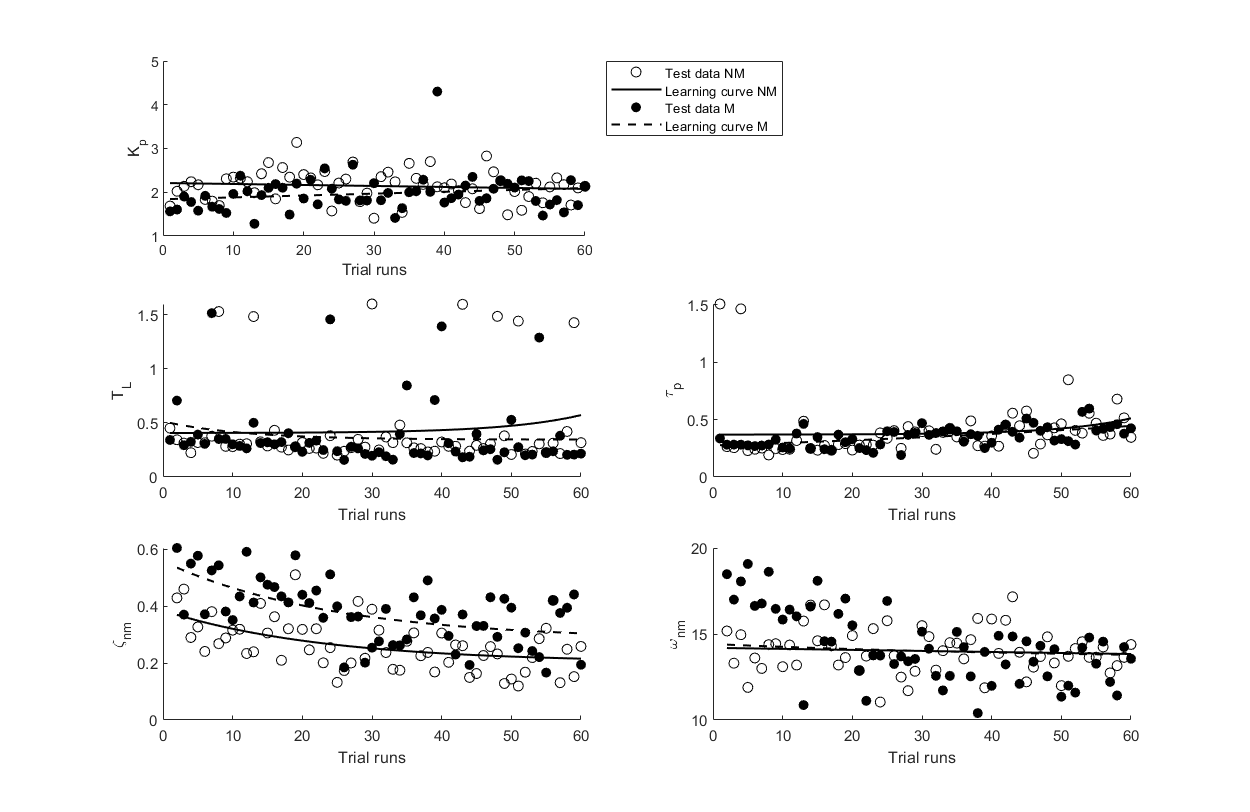
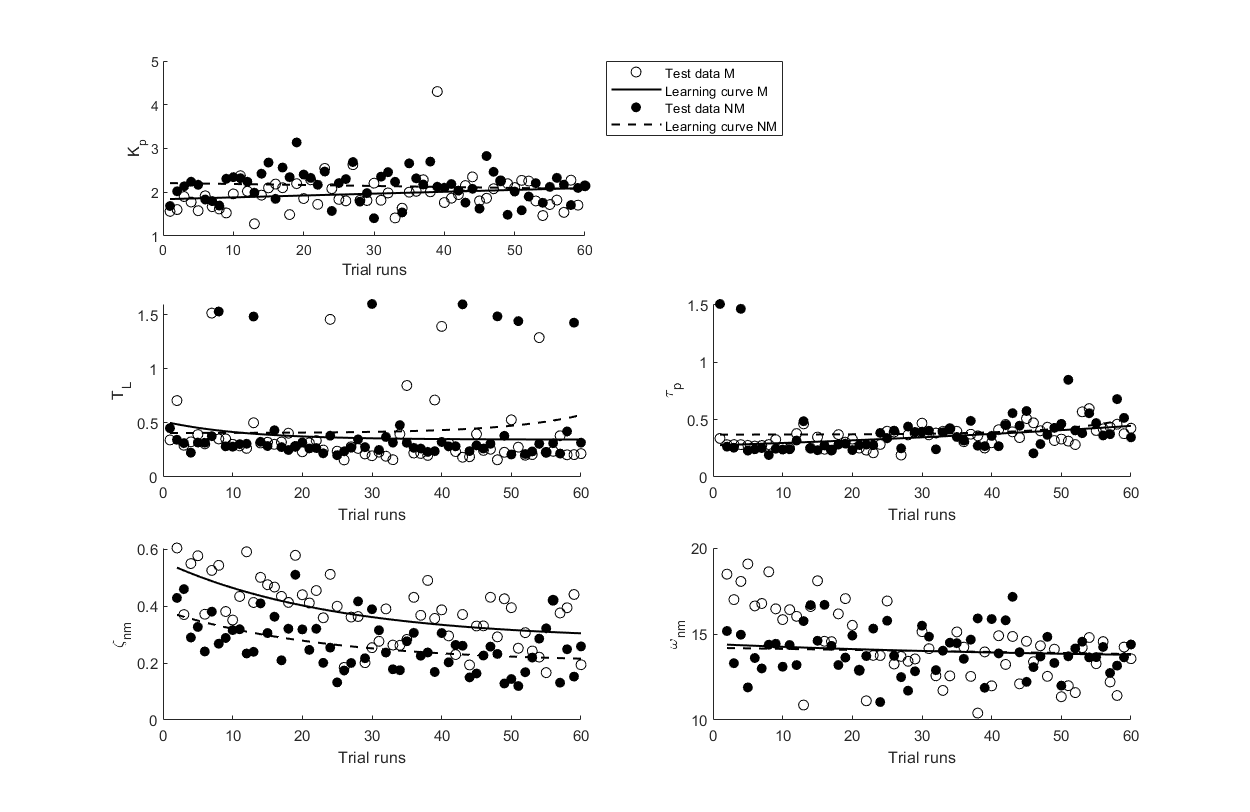
Updated plots

diff --git a/J_fun.m b/J_fun.m
@@ -425,17 +425,17 @@ h1 = subplot(3,2,[1,2]);
 size = get(h1,'position');
 ah=gca; 
 set(ah,'Fontsize',12)
-scatter(x_axis,kp_nm,'k','o')
+scatter(x_axis,kp_m,'k','o')
 hold on
-plot(x_axis,yfit_nm_kp,'k','LineStyle','-','LineWidth',1.2);
+plot(x_axis,yfit_m_kp,'k','LineStyle','-','LineWidth',1.2);
 hold on
-scatter(x_axis,kp_m,'k','filled')
+scatter(x_axis,kp_nm,'k','filled')
 hold on
-plot(x_axis,yfit_m_kp,'k','LineStyle','--','LineWidth',1.2);
+plot(x_axis,yfit_nm_kp,'k','LineStyle','--','LineWidth',1.2);
 hold off
 xlabel('Trial runs')
 ylabel('K_p')
-legend('Test data NM','Learning curve NM','Test data M','Learning curve M','Location','bestoutside')
+legend('Test data M','Learning curve M','Test data NM','Learning curve NM','Location','bestoutside')
 % ylim([-10,5])
 % legend({'K_p','Learning curve','Upper bound','Lower Bound'},'Location','northeast','Orientation','vertical')
 %plotting time lead
@@ -443,13 +443,13 @@ h2 = subplot(3,2,3);
 size2 = get(h2,'position');
 ah=gca; 
 set(ah,'Fontsize',12)
-scatter(x_axis,Tl_nm,'k','o')
+scatter(x_axis,Tl_m,'k','o')
 hold on
-plot(x_axis,yfit_nm_Tl,'k','LineStyle','-','LineWidth',1.2);
+plot(x_axis,yfit_m_Tl,'k','LineStyle','-','LineWidth',1.2);
 hold on
-scatter(x_axis,Tl_m,'k','filled')
+scatter(x_axis,Tl_nm,'k','filled')
 hold on
-plot(x_axis,yfit_m_Tl,'k','LineStyle','--','LineWidth',1.2);
+plot(x_axis,yfit_nm_Tl,'k','LineStyle','--','LineWidth',1.2);
 hold off
 xlabel('Trial runs')
 ylabel('T_L')
@@ -458,13 +458,13 @@ ylabel('T_L')
 subplot(3,2,4);
 ah=gca; 
 set(ah,'Fontsize',12)
-scatter(x_axis,Tp_nm,'k','o')
+scatter(x_axis,Tp_m,'k','o')
 hold on
-plot(x_axis,yfit_nm_Tp,'k','LineStyle','-','LineWidth',1.2);
+plot(x_axis,yfit_m_Tp,'k','LineStyle','-','LineWidth',1.2);
 hold on
-scatter(x_axis,Tp_m,'k','filled')
+scatter(x_axis,Tp_nm,'k','filled')
 hold on
-plot(x_axis,yfit_m_Tp,'k','LineStyle','--','LineWidth',1.2);
+plot(x_axis,yfit_nm_Tp,'k','LineStyle','--','LineWidth',1.2);
 hold off
 xlabel('Trial runs')
 ylabel('\tau_p')
@@ -475,13 +475,13 @@ x_new = [2:1:60];
 subplot(3,2,5)
 ah=gca; 
 set(ah,'Fontsize',12)
-scatter(x_new,zeta_nm(2:end,:),'k','o')
+scatter(x_new,zeta_m(2:end,:),'k','o')
 hold on
-plot(x_new,yfit_nm_zeta,'k','LineStyle','-','LineWidth',1.2);
+plot(x_new,yfit_m_zeta,'k','LineStyle','-','LineWidth',1.2);
 hold on
-scatter(x_new,zeta_m(2:end,:),'k','filled')
+scatter(x_new,zeta_nm(2:end,:),'k','filled')
 hold on
-plot(x_new,yfit_m_zeta,'k','LineStyle','--','LineWidth',1.2);
+plot(x_new,yfit_nm_zeta,'k','LineStyle','--','LineWidth',1.2);
 hold off
 xlabel('Trial runs')
 ylabel('\zeta_{nm}')
@@ -490,13 +490,13 @@ ylabel('\zeta_{nm}')
 subplot(3,2,6)
 ah=gca; 
 set(ah,'Fontsize',12)
-scatter(x_new,omega_nm(2:end,:),'k','o')
+scatter(x_new,omega_m(2:end,:),'k','o')
 hold on
-plot(x_new,yfit_nm_omega,'k','LineStyle','-','LineWidth',1.2);
+plot(x_new,yfit_m_omega,'k','LineStyle','-','LineWidth',1.2);
 hold on
-scatter(x_new,omega_m(2:end,:),'k','filled')
+scatter(x_new,omega_nm(2:end,:),'k','filled')
 hold on
-plot(x_new,yfit_m_omega,'k','LineStyle','--','LineWidth',1.2);
+plot(x_new,yfit_nm_omega,'k','LineStyle','--','LineWidth',1.2);
 hold off
 xlabel('Trial runs')
 ylabel('\omega_{nm}')
@@ -513,13 +513,13 @@ h1 = subplot(2,1,1);
 size = get(h1,'position');
 ah=gca; 
 set(ah,'Fontsize',12)
-scatter(x_axis,kp_nm,'k','o')
+scatter(x_axis,kp_m,'k','o')
 hold on
-plot(x_axis,yfit_nm_kp,'k','LineStyle','-','LineWidth',1.2);
+plot(x_axis,yfit_m_kp,'k','LineStyle','-','LineWidth',1.2);
 hold on
-scatter(x_axis,kp_m,'k','filled')
+scatter(x_axis,kp_nm,'k','filled')
 hold on
-plot(x_axis,yfit_m_kp,'k','LineStyle','--','LineWidth',1.2);
+plot(x_axis,yfit_nm_kp,'k','LineStyle','--','LineWidth',1.2);
 hold off
 xlabel('Trial runs')
 ylabel('K_p')
@@ -530,15 +530,15 @@ ylim([1,3])
 subplot(2,1,2);
 ah=gca; 
 set(ah,'Fontsize',12)
-scatter(x_axis,Tp_nm,'k','o')
+scatter(x_axis,Tp_m,'k','o')
 hold on
-plot(x_axis,yfit_nm_Tp,'k','LineStyle','-','LineWidth',1.2);
+plot(x_axis,yfit_m_Tp,'k','LineStyle','-','LineWidth',1.2);
 hold on
-scatter(x_axis,Tp_m,'k','filled')
+scatter(x_axis,Tp_nm,'k','filled')
 hold on
-plot(x_axis,yfit_m_Tp,'k','LineStyle','--','LineWidth',1.2);
+plot(x_axis,yfit_nm_Tp,'k','LineStyle','--','LineWidth',1.2);
 hold off
 xlabel('Trial runs')
 ylabel('\tau_p')
 ylim([0,0.75])
-legend('Test data NM','Learning curve NM','Test data M','Learning curve M','Location','best')
+legend('Test data M','Learning curve M','Test data NM','Learning curve NM','Location','best')
